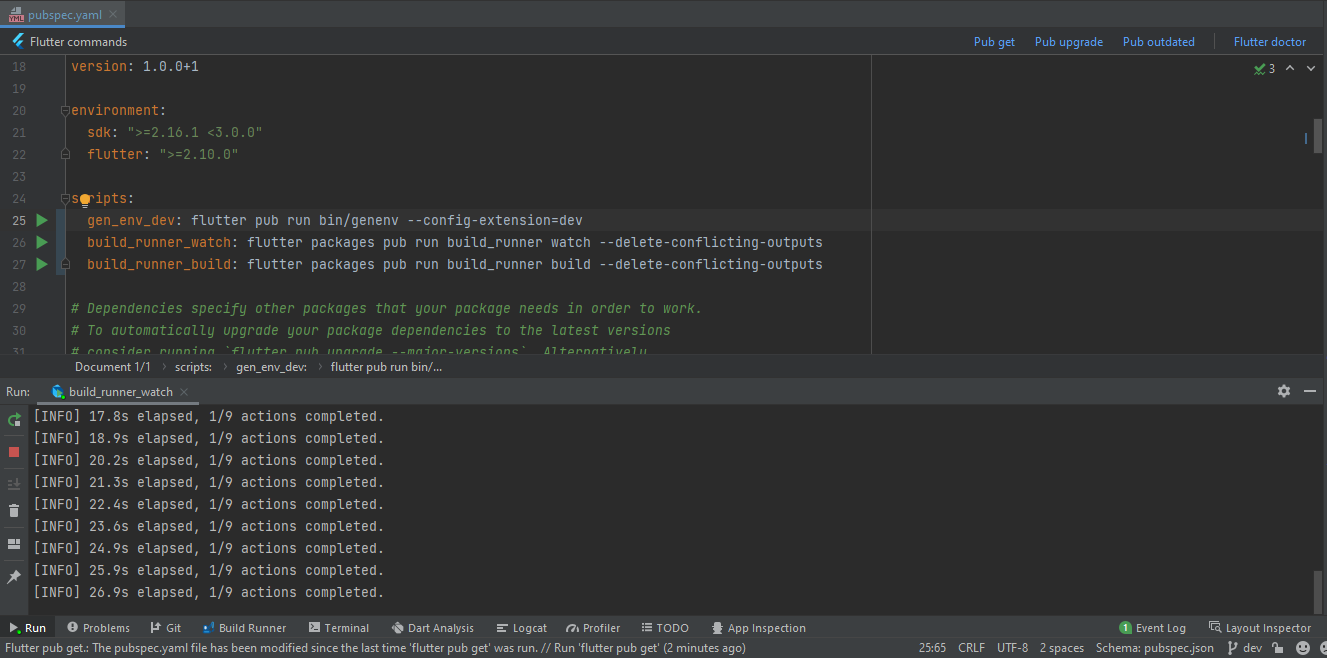
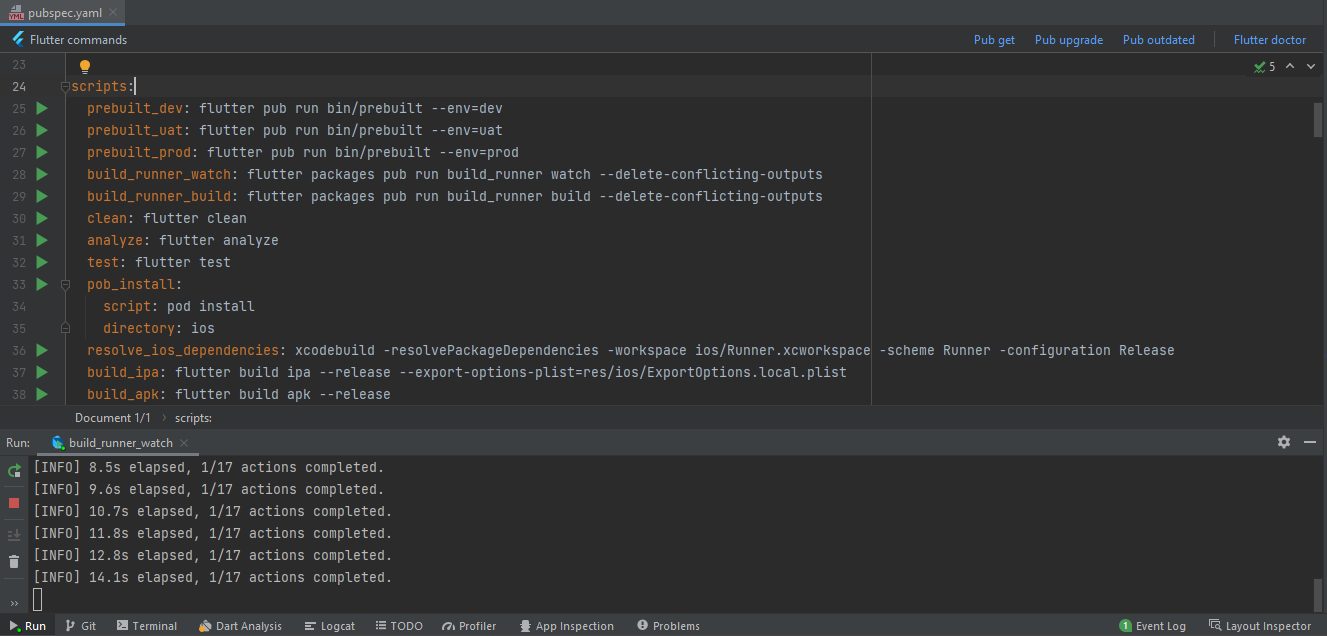
Support specify `workingDirectory` and `executeInTerminal` options.

diff --git a/src/main/java/com/joutvhu/intellij/dartscripts/action/PubspecRunScriptAction.java b/src/main/java/com/joutvhu/intellij/dartscripts/action/PubspecRunScriptAction.java
@@ -12,6 +12,7 @@ import com.intellij.openapi.util.UserDataHolder;
 import com.intellij.psi.PsiElement;
 import com.intellij.psi.PsiFile;
 import com.joutvhu.intellij.dartscripts.LineMarkerActionWrapper;
+import com.joutvhu.intellij.dartscripts.PubspecLineMarkerProvider;
 import com.joutvhu.intellij.dartscripts.run.PubspecTerminalHelper;
 import org.jetbrains.annotations.Nls;
 import org.jetbrains.annotations.NotNull;
@@ -20,9 +21,13 @@ import org.jetbrains.yaml.psi.YAMLFile;
 import org.jetbrains.yaml.psi.YAMLKeyValue;
 
 import javax.swing.*;
+import java.nio.file.Paths;
+import java.util.Map;
 
 public class PubspecRunScriptAction extends AnAction {
     public static final String ID = "runPubspecScriptAction";
+    public static final String DIRECTORY_KEY = "directory";
+    public static final String TERMINAL_KEY = "terminal";
 
     public PubspecRunScriptAction(
             @Nullable @Nls(capitalization = Nls.Capitalization.Title) String text,
@@ -38,12 +43,36 @@ public class PubspecRunScriptAction extends AnAction {
         PsiFile file = e.getData(CommonDataKeys.PSI_FILE);
         YAMLKeyValue element = getElement(e);
         if (project != null && file instanceof YAMLFile && element != null) {
-            PubspecTerminalHelper.runScript(
-                    this.getExecutor(),
-                    e.getData(CommonDataKeys.PROJECT),
-                    element.getKeyText(),
-                    element.getValueText(),
-                    file.getVirtualFile().getParent().getPath());
+            Map<String, String> params = PubspecLineMarkerProvider.getActionParams(element);
+            if (params != null) {
+                String scriptText = params.get(PubspecLineMarkerProvider.SCRIPT_TEXT_KEY);
+                if (scriptText != null) {
+                    String workingDirectory = file.getVirtualFile().getParent().getPath();
+                    if (params.containsKey(DIRECTORY_KEY)) {
+                        workingDirectory = Paths.get(workingDirectory)
+                                .resolve(params.get(DIRECTORY_KEY))
+                                .normalize()
+                                .toAbsolutePath()
+                                .toString();
+                    }
+                    Boolean executeInTerminal = null;
+                    if (params.containsKey(TERMINAL_KEY)) {
+                        String terminalOption = params.get(TERMINAL_KEY);
+                        if ("true".equalsIgnoreCase(terminalOption) || "yes".equalsIgnoreCase(terminalOption))
+                            executeInTerminal = true;
+                        if ("false".equalsIgnoreCase(terminalOption) || "no".equalsIgnoreCase(terminalOption))
+                            executeInTerminal = false;
+                    }
+
+                    PubspecTerminalHelper.runScript(
+                            this.getExecutor(),
+                            e.getData(CommonDataKeys.PROJECT),
+                            element.getKeyText(),
+                            scriptText,
+                            workingDirectory,
+                            executeInTerminal);
+                }
+            }
         }
     }
 

diff --git a/src/main/java/com/joutvhu/intellij/dartscripts/PubspecLineMarkerProvider.java b/src/main/java/com/joutvhu/intellij/dartscripts/PubspecLineMarkerProvider.java
@@ -18,14 +18,17 @@ import org.jetbrains.yaml.psi.YAMLKeyValue;
 import org.jetbrains.yaml.psi.YAMLScalar;
 import org.jetbrains.yaml.psi.impl.YAMLBlockMappingImpl;
 
+import java.util.HashMap;
+import java.util.Map;
+
 public class PubspecLineMarkerProvider extends RunLineMarkerProvider {
     public static final String SCRIPT_KEY = "scripts";
+    public static final String SCRIPT_TEXT_KEY = "script";
     public static final String PUBSPEC_FILE = "pubspec.yaml";
 
     @Override
     public LineMarkerInfo<?> getLineMarkerInfo(@NotNull PsiElement element) {
         if (element instanceof YAMLKeyValue &&
-                ((YAMLKeyValue) element).getValue() instanceof YAMLScalar &&
                 element.getParent() instanceof YAMLBlockMappingImpl &&
                 element.getParent().getParent() instanceof YAMLKeyValue) {
             YAMLKeyValue scriptsElement = (YAMLKeyValue) element.getParent().getParent();
@@ -38,7 +41,9 @@ public class PubspecLineMarkerProvider extends RunLineMarkerProvider {
                     if (doc.getParent() instanceof YAMLFile) {
                         VirtualFile file = ((YAMLFile) doc.getParent()).getVirtualFile();
                         if (!file.isDirectory() && PUBSPEC_FILE.equals(file.getName())) {
-                            return createMarkerInfo((YAMLKeyValue) element);
+                            Map<String, String> params = getActionParams((YAMLKeyValue) element);
+                            if (params != null && params.containsKey(SCRIPT_TEXT_KEY))
+                                return createMarkerInfo((YAMLKeyValue) element);
                         }
                     }
                 }
@@ -53,5 +58,22 @@ public class PubspecLineMarkerProvider extends RunLineMarkerProvider {
         DefaultActionGroup actionGroup = new DefaultActionGroup();
         actionGroup.add(new LineMarkerActionWrapper(element, action));
         return new RunLineMarkerInfo(element, AllIcons.Actions.Execute, psiElement -> "", actionGroup);
+    }
+
+    public static Map<String, String> getActionParams(YAMLKeyValue element) {
+        Map<String, String> params = new HashMap<>();
+        if (element.getValue() instanceof YAMLScalar) {
+            params.put(SCRIPT_TEXT_KEY, ((YAMLScalar) element.getValue()).getTextValue());
+            return params;
+        } else if (element.getValue() instanceof YAMLBlockMappingImpl) {
+            YAMLBlockMappingImpl childBlock = (YAMLBlockMappingImpl) element.getValue();
+            for (PsiElement child = childBlock.getFirstChild(); child != null; child = child.getNextSibling()) {
+                if (child instanceof YAMLKeyValue && ((YAMLKeyValue) child).getValue() instanceof YAMLScalar) {
+                    params.put(((YAMLKeyValue) child).getKeyText(), ((YAMLKeyValue) child).getValueText());
+                }
+            }
+            return params;
+        }
+        return null;
     }
 }

diff --git a/src/main/java/com/joutvhu/intellij/dartscripts/run/PubspecTerminalHelper.java b/src/main/java/com/joutvhu/intellij/dartscripts/run/PubspecTerminalHelper.java
@@ -17,7 +17,8 @@ public class PubspecTerminalHelper {
             Project project,
             String name,
             String script,
-            String workingDirectory
+            String workingDirectory,
+            Boolean executeInTerminal
     ) {
         RunManager runManager = RunManager.getInstance(project);
         DartScriptConfigurationType configurationType = ConfigurationTypeUtil
@@ -33,7 +34,7 @@ public class PubspecTerminalHelper {
 
         DartScriptRunConfiguration runConfiguration = (DartScriptRunConfiguration) configurationSettings.getConfiguration();
         runConfiguration.setScriptText(script);
-        runConfiguration.setExecuteInTerminal(false);
+        runConfiguration.setExecuteInTerminal(Boolean.TRUE.equals(executeInTerminal));
         runConfiguration.setScriptWorkingDirectory(workingDirectory);
 
         ExecutionEnvironmentBuilder builder = ExecutionEnvironmentBuilder

diff --git a/README.md b/README.md
@@ -15,3 +15,19 @@ Dart Scripts Runner will add a run button on each script line.
 Click that button to run the script.
 
 ![Edit run configuration](docs/images/dart-script-configuration.png)
+
+## Example
+
+```yaml
+scripts:
+  # Without options:
+  #   directory: <project directory>
+  #   terminal:  false
+  pub_get: flutter pub get
+
+  # With options
+  pod_install:
+    script: pod install   # Script text                        (required)
+    directory: ./ios      # Working directory                  (default: <project directory>)
+    terminal: true        # Should execute script in terminal? (default: false)
+```

diff --git a/CHANGELOG.md b/CHANGELOG.md
@@ -1,3 +1,15 @@
+## 1.201.2
+
+- Support specify `workingDirectory` and `executeInTerminal` options.
+  ```yaml
+  scripts:
+    # With options
+    pod_install:
+      script: pod install   # Script text                        (required)
+      directory: ios      # Working directory                  (default: <project directory>)
+      terminal: true        # Should execute script in terminal? (default: false)
+  ```
+
 ## 1.221.1
 
 - Fix "No such file or directory" on MacOS
